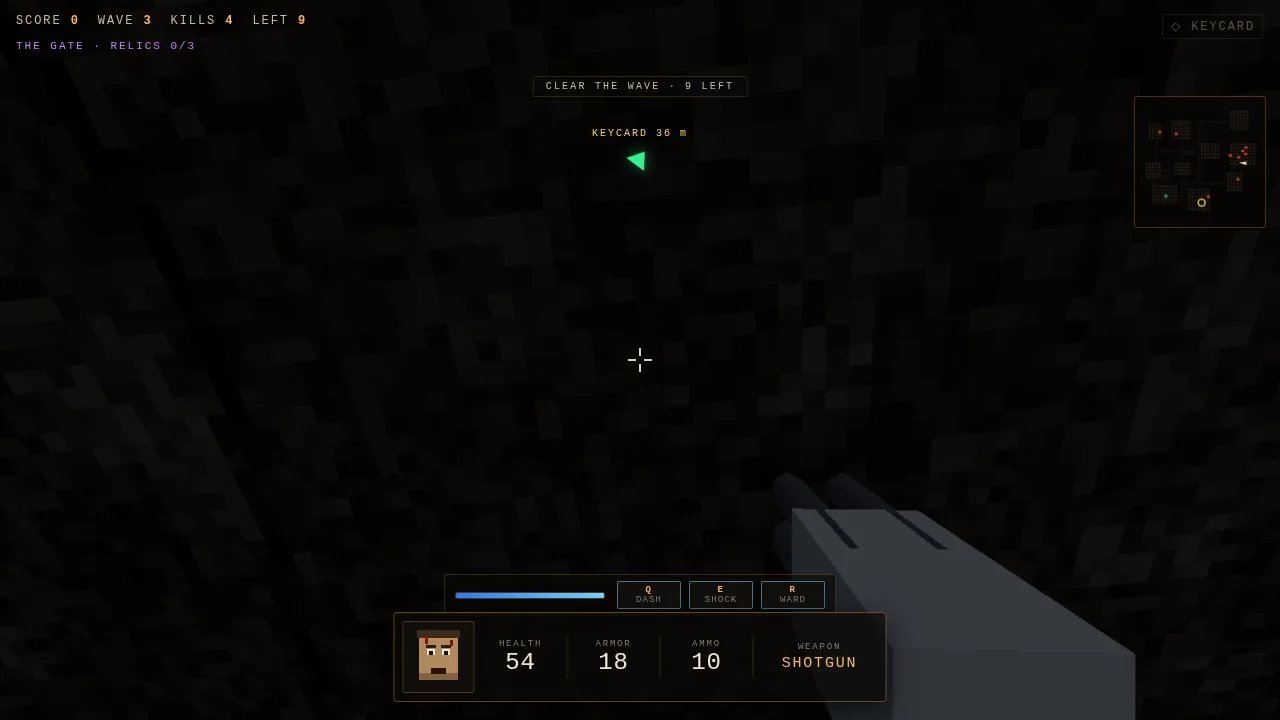
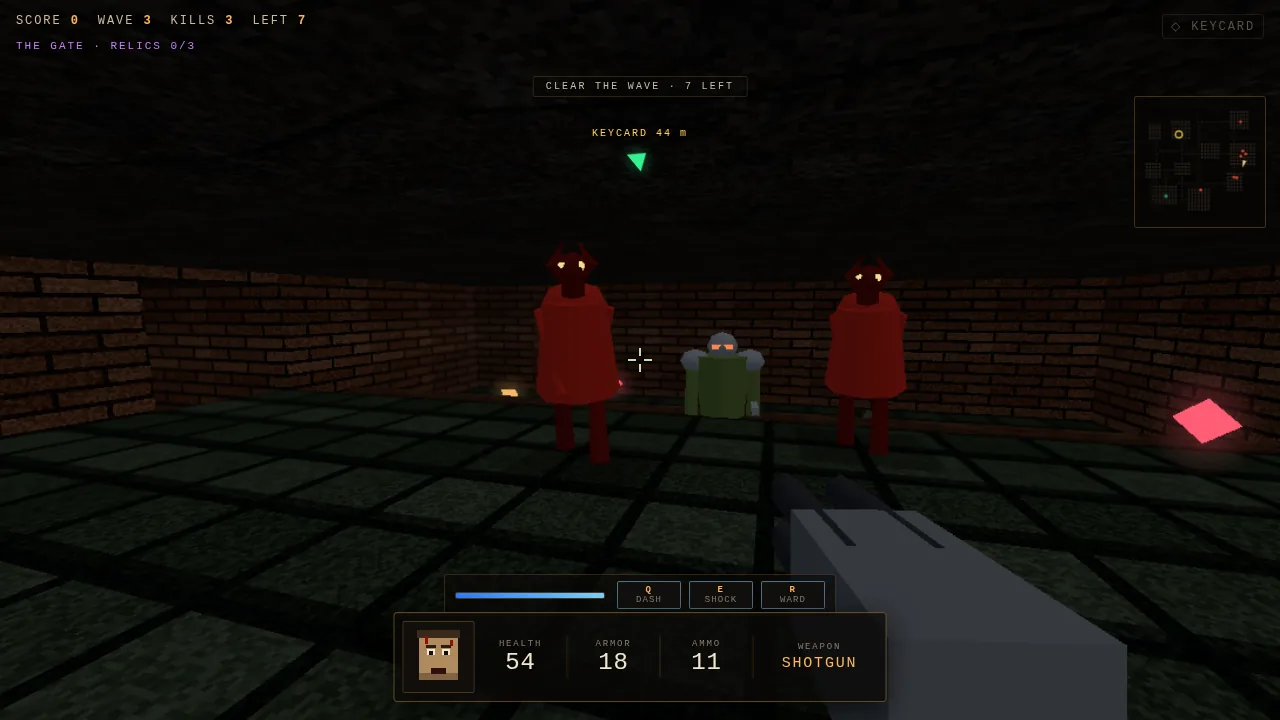
feat: the wind-up glows — 1.38.0
Every enemy that shoots now glows while it winds up: emissive ramps from black to
hot orange across the telegraph (0.55 s imp, 0.4 grunt, 0.75 spitter, 0.7 warden).
Before, the only tell was a particle burst and a scale twitch.

The hit flash shares the emissive channel, so the flash wins while it lasts and
the charge colour is restored after.

One test asserted emissive.r === 0 after a flash, which is no longer true while an
enemy winds up; it now checks the real invariant.

diff --git a/play/src/enemies.js b/play/src/enemies.js
@@ -349,6 +349,8 @@ export class Enemy {
     // without lighting up every other enemy on the map
     this.flashMats = [];
     this.flash = 0;
+    this.charging = 0;   // 0..1 through the wind-up
+    this.charged = false; // true while a wind-up glow needs clearing
     const remap = new Map();
     this.mesh.traverse((o) => {
       if (!o.isMesh || !o.material) return;
@@ -539,7 +541,9 @@ export class Enemy {
         this.faceTo(dx, dz);
         const tg = this.T.telegraph;
         if (this.stateT < tg) {
-          // telegraph: wind up
+          // telegraph: wind up, and glow while doing it
+          this.charging = this.stateT / tg;
+          this.charged = true;
           this.mesh.scale.set(1, 1 + Math.sin(this.stateT * 30) * 0.04, 1);
           if (this.type === 'imp' && Math.random() < 0.35) {
             const c = this.chestPos();
@@ -547,6 +551,7 @@ export class Enemy {
           }
         } else if (!this.fired) {
           this.fired = true;
+          this.charging = 0;
           this.mesh.scale.set(1, 1, 1);
           this.doAttack(ctx, dist, dx, dz, canSee, playerEye);
         } else if (this.stateT > tg + 0.35) {
@@ -558,6 +563,7 @@ export class Enemy {
       }
       case STATE.PAIN: {
         this.moving = false;
+        this.charging = 0;
         if (this.stateT > 0.26) this.setState(STATE.CHASE);
         break;
       }
@@ -766,6 +772,14 @@ export class Enemy {
       this.flash = Math.max(0, this.flash - dt);
       const e = this.flash / 0.16;
       for (const m of this.flashMats) m.emissive.setRGB(e * 0.85, e * 0.12, e * 0.08);
+    } else if (this.charging > 0) {
+      // the wind-up is the read: the body heats up over the telegraph, so a
+      // player can see the shot coming instead of being told by their health bar
+      const k = Math.min(1, this.charging);
+      for (const m of this.flashMats) m.emissive.setRGB(k * 0.55, k * 0.22, 0);
+    } else if (this.charged) {
+      this.charged = false;
+      for (const m of this.flashMats) m.emissive.setRGB(0, 0, 0);
     }
     const sp = this.moving ? 1 : 0;
     this.walkPhase += dt * (this.moving ? 9 : 0);

diff --git a/CHANGELOG.md b/CHANGELOG.md
@@ -1,5 +1,27 @@
 # Changelog
 
+## 1.38.0 — 2026-11-20
+
+**The wind-up is visible now**
+
+Every enemy that shoots glows while it winds up: the body's emissive channel ramps from black to hot
+orange across the telegraph — 0.55 s for an imp, 0.4 s for a grunt, 0.75 s for a spitter, 0.7 s for the
+warden. Before this, the only tell was a small particle burst on the imp and the enemy's own scale
+animation, which reads as a twitch rather than a warning.
+
+A hit flash uses the same emissive channel, so the flash wins while it lasts and the charge colour is
+restored after it — the two never fight over the pixel.
+
+This follows from "kills you if not properly played": the game was asking the player to read a 0.55 s
+window off a health bar.
+
+**One test asserted the wrong thing** — `flash decays back to black` checked `emissive.r === 0`, which is
+no longer true once an enemy is winding up. It now checks that the flash ended and that whatever is left
+is the charge colour (no blue), which is the real invariant.
+
+**`documentation/combat.md`** describes the telegraph timings per type.
+
+
 ## 1.37.0 — 2026-11-20
 
 **The campaign ramps across zones, not just across waves**

diff --git a/documentation/combat.md b/documentation/combat.md
@@ -149,3 +149,13 @@ Enemies spawn in room cells at least 9 units from the player, in a burst of red 
 scattered at least 4 units away. The exit unlocks when `aliveCount === 0` and — from wave 3 — the
 keycard is held; the pad itself only advances the wave when `exitOpen` is true, so walking into the
 exit room early does nothing.
+
+## The wind-up is the read
+
+Every enemy that shoots glows while it winds up: the body's emissive channel ramps from black to hot
+orange across the telegraph — 0.55 s for an imp, 0.4 s for a grunt, 0.75 s for a spitter, 0.7 s for the
+warden. A hit uses the same channel for its flash, so the two never overlap: the flash wins while it
+lasts, then the charge colour is restored.
+
+This exists because the alternative is learning an enemy is shooting you from your health bar, which is
+the wrong way round.
